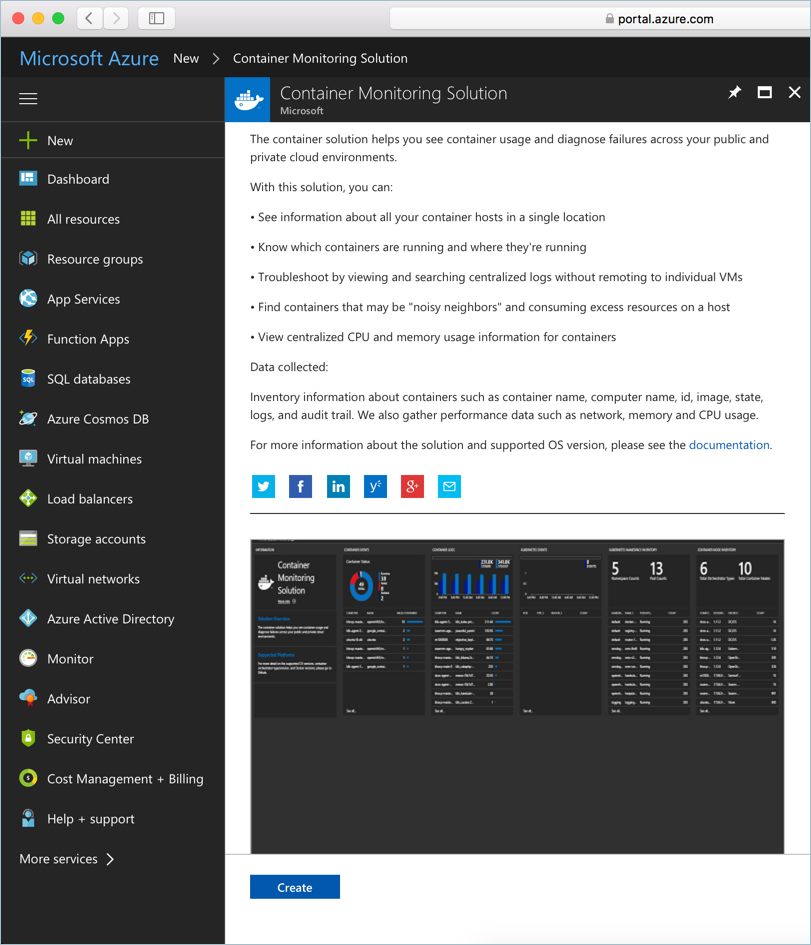
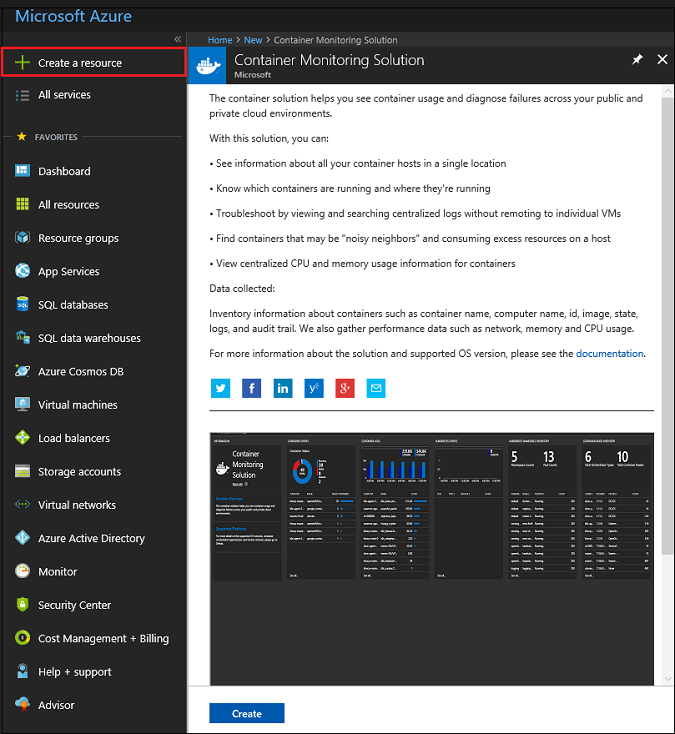
More changes for portal ui updates to New button and More services menu.

Changed region(s): [[0.0, 0.0, 1.0, 1.0], [0.0, 0.1798, 0.1556, 0.2398]]

diff --git a/articles/aks/tutorial-kubernetes-monitor.md b/articles/aks/tutorial-kubernetes-monitor.md
@@ -33,7 +33,7 @@ If you have not done these steps, and would like to follow along, return to [Tut
 
 ## Configure the monitoring solution
 
-In the Azure portal, select **New** and search for `Container Monitoring Solution`. Once located, select **Create**.
+In the Azure portal, select **Create a resource** and search for `Container Monitoring Solution`. Once located, select **Create**.
 
 ![Add solution](./media/container-service-tutorial-kubernetes-monitor/add-solution.png)
 
